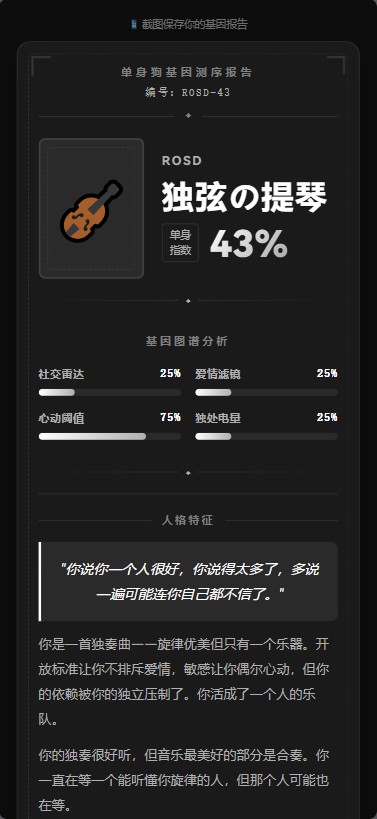
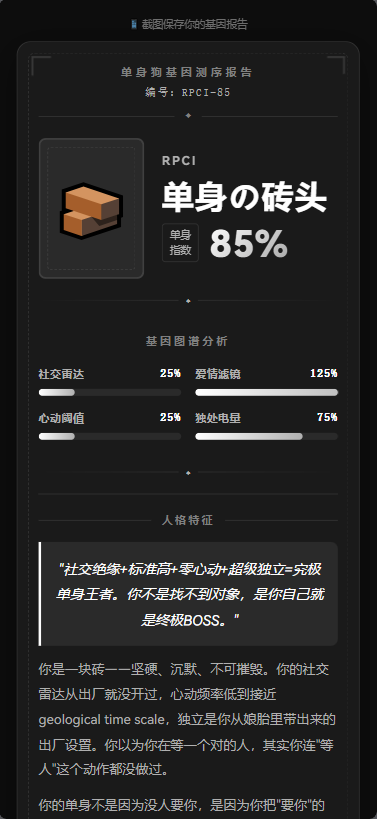
Update screenshot and README

diff --git a/README.md b/README.md
@@ -6,20 +6,25 @@
 
 ---
 
-> 我是一名平面设计师，日常工作在 PS 和 AI 里完成，不会写代码。
->
-> 之前看到有人做的 SBTI 出圈爆火，觉得很有意思。
-> 但大多数人没能力自己做一个——我也一样。
->
-> 所以想做一个东西，让每个人都能创建自己感兴趣的测试题，跟朋友分享。
->
-> 设计上没有追求特别高级的视觉风格，而是选择了不容易出错的方案——
-> 很多时候，一个 emoji 就能表达一切。
->
-> 希望大家都能享受创建的过程，从中得到乐趣。
->
-> 从想法到上线，整个过程都在 WorkBuddy 里完成。
-> 感谢 WorkBuddy。
+<table border="1" cellpadding="16" cellspacing="0" style="border-collapse: collapse; border-color: #ddd; border-radius: 8px;">
+<tr>
+<td>
+
+⭐ 我是一名平面设计师，日常工作在 PS 和 AI 里完成（Adobe 家的），不会写代码。
+
+之前看到有人做的 SBTI 出圈爆火，觉得很有意思。但大多数人没能力自己做一个——我也一样。
+
+所以想做一个东西，让每个人都能创建自己感兴趣的测试题，跟朋友分享。
+
+设计上没有追求特别高级的视觉风格，而是选择了不容易出错的方案——**很多时候，一个 emoji 就能表达一切！！！**
+
+**希望大家都能享受创建的过程，从中得到乐趣。**
+
+从想法到上线，整个过程都在 WorkBuddy 里完成。感谢 WorkBuddy。
+
+</td>
+</tr>
+</table>
 
 ---
 
